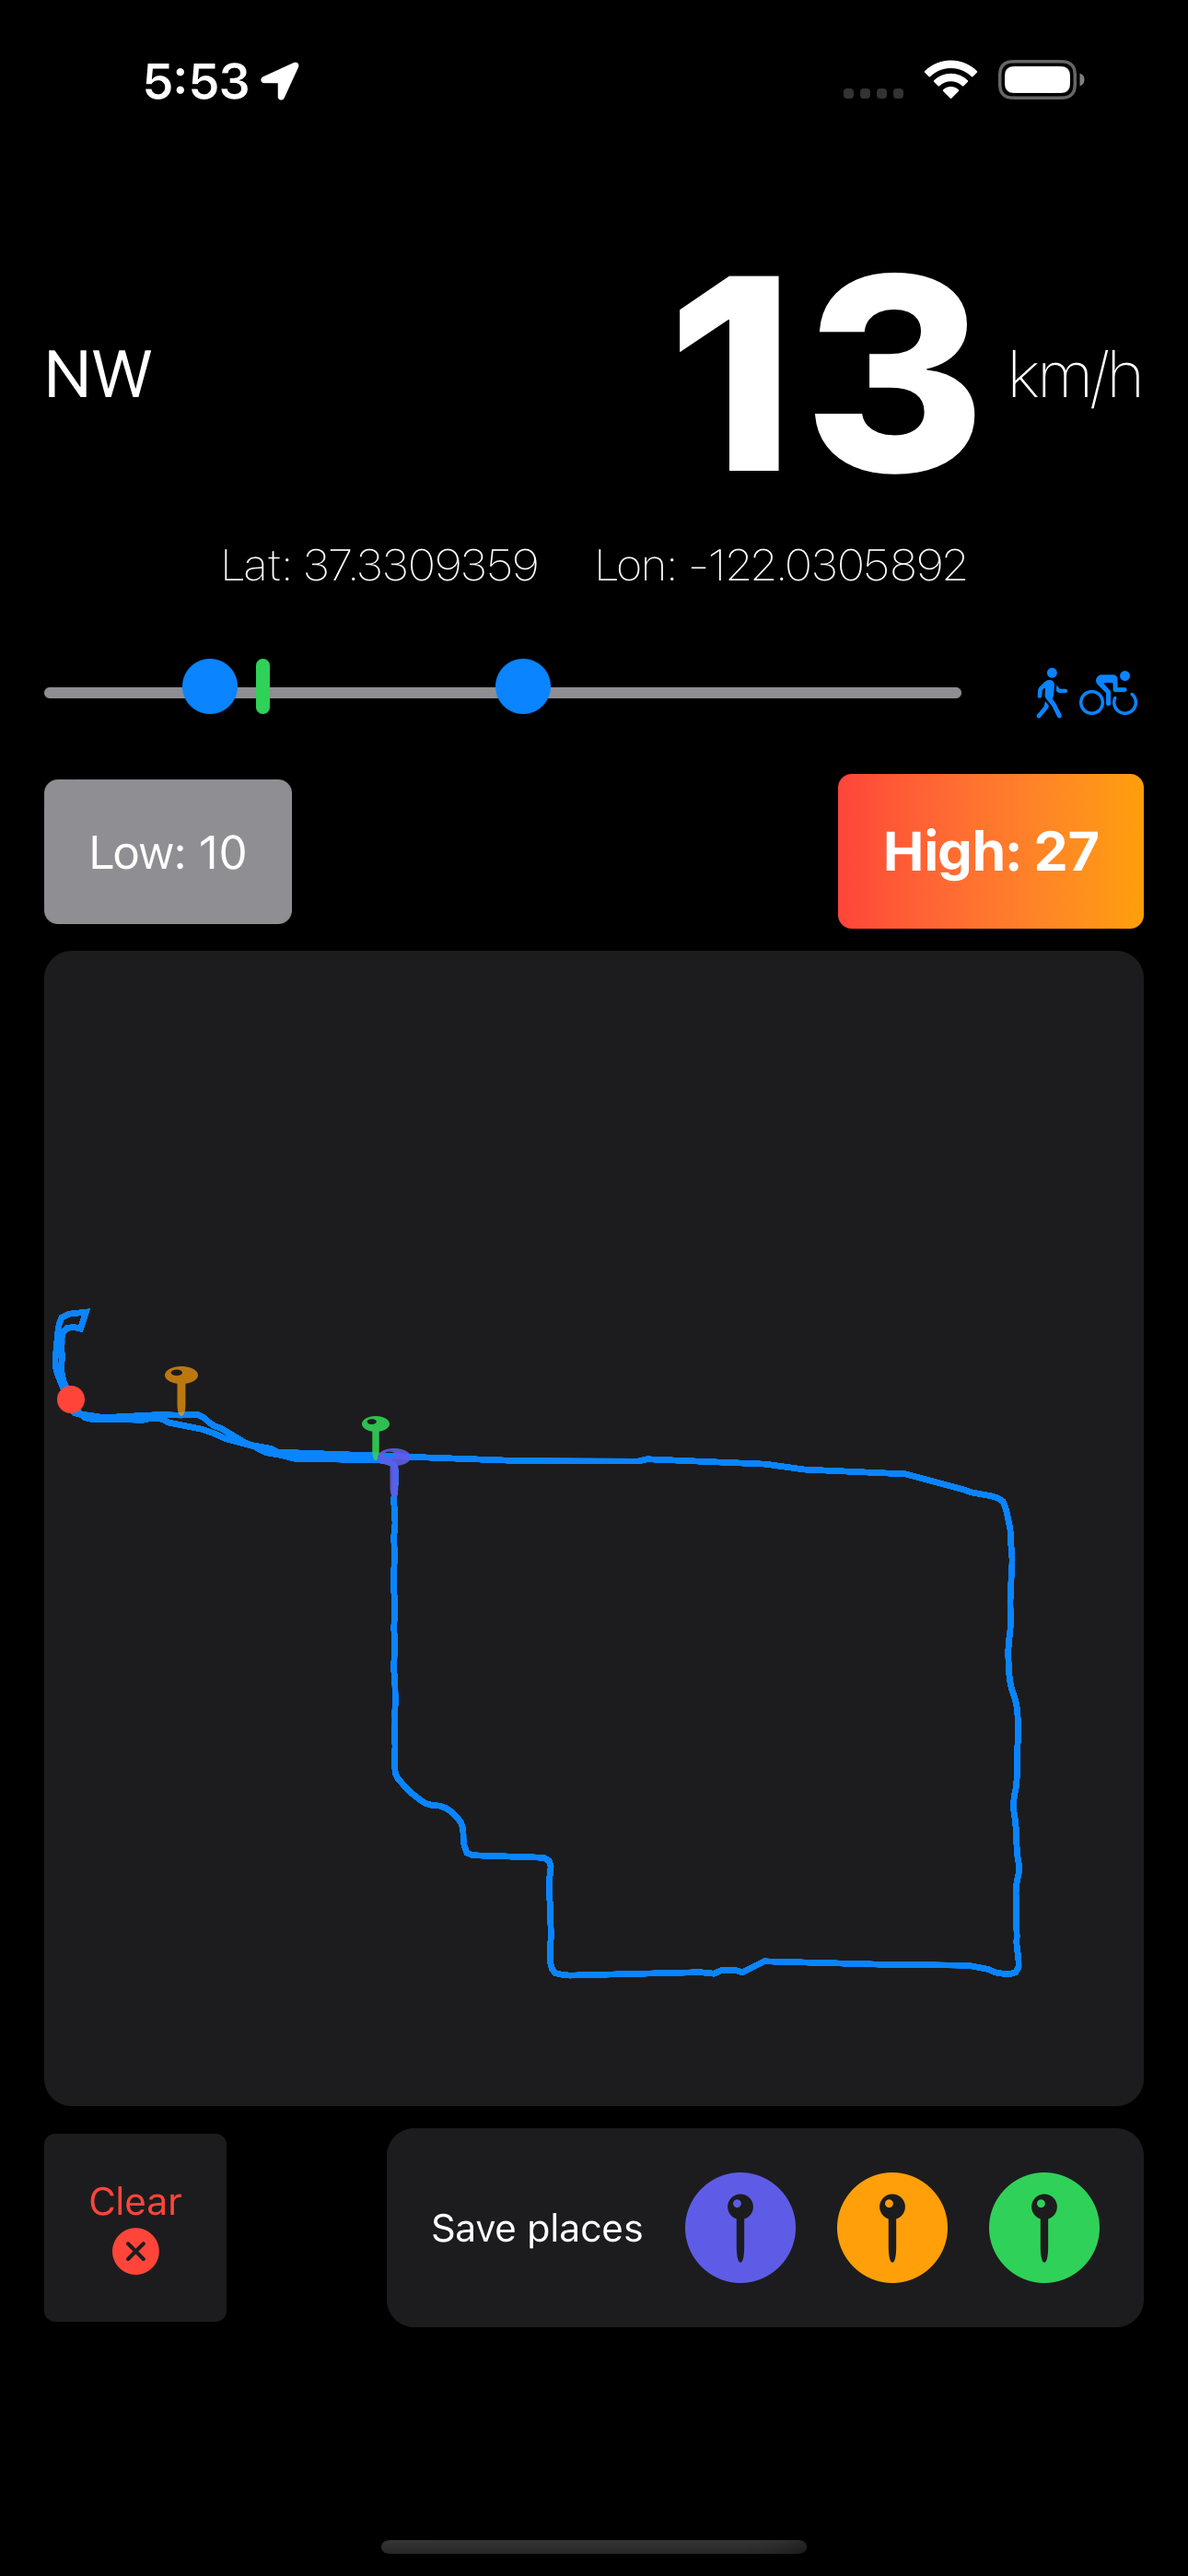
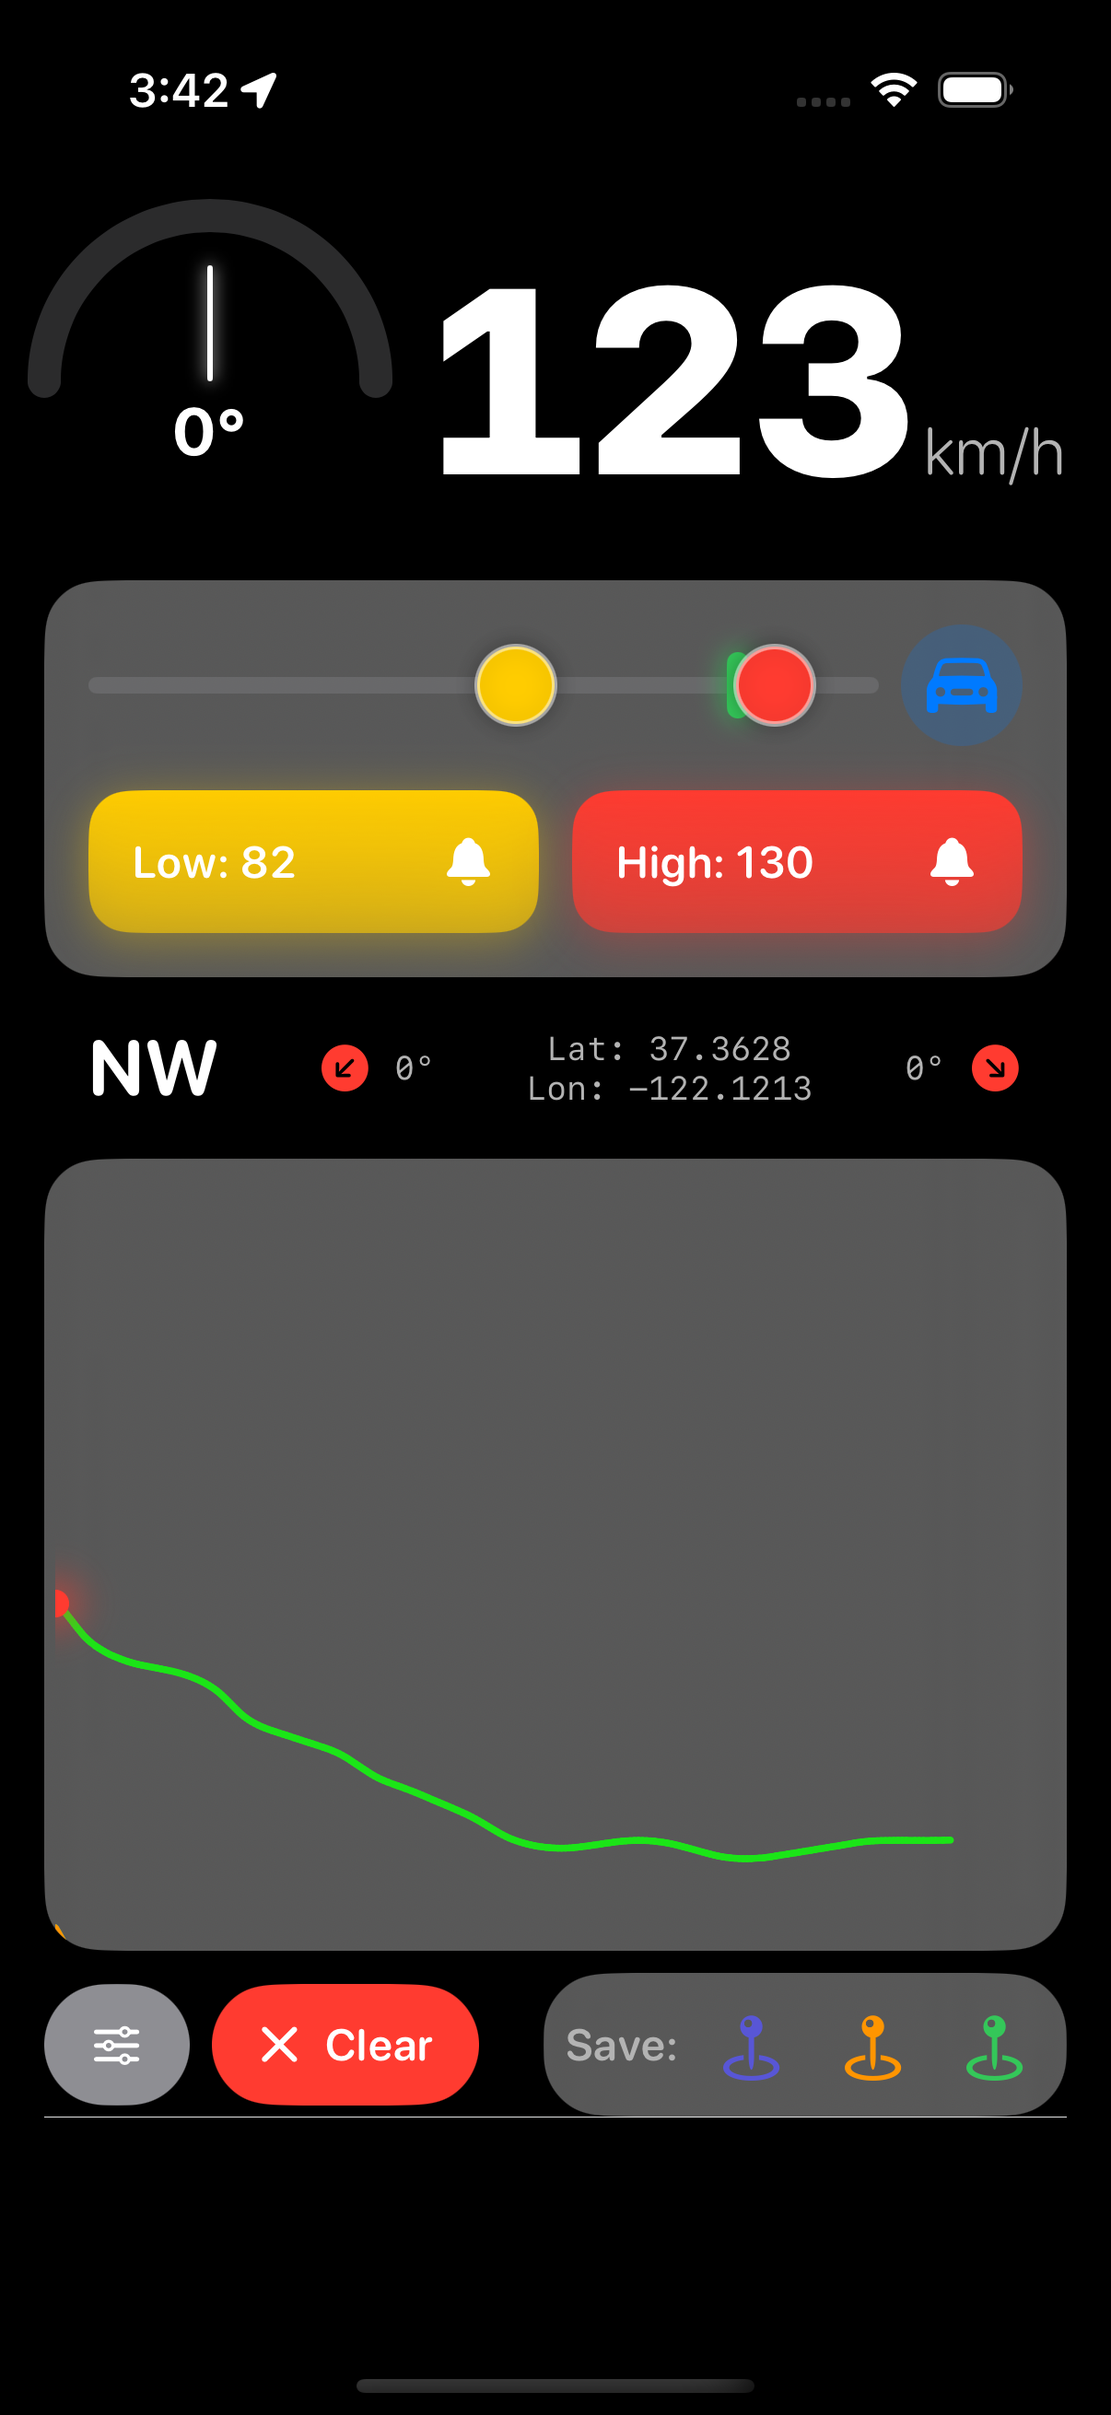
design updated, content modified for lean angle

diff --git a/index.html b/index.html
@@ -3,90 +3,116 @@
 <head>
     <meta charset="UTF-8">
     <meta name="viewport" content="width=device-width, initial-scale=1.0">
-    <title>Speedometer and Trails App</title>
+    <title>Speedometer & Trails App</title>
+    <!-- Tailwind CSS for modern styling -->
+    <script src="https://cdn.tailwindcss.com"></script>
+    <!-- Google Fonts for a clean, modern look -->
+    <link rel="preconnect" href="https://fonts.googleapis.com">
+    <link rel="preconnect" href="https://fonts.gstatic.com" crossorigin>
+    <link href="https://fonts.googleapis.com/css2?family=Inter:wght@400;600;700;900&display=swap" rel="stylesheet">
     <style>
+        /* Custom font family */
         body {
-            font-family: Arial, sans-serif;
-            line-height: 1.6;
-            margin: 20px;
-            background-color: #1e1e1e;
-            color: #ffffff;
+            font-family: 'Inter', sans-serif;
         }
-        .container {
-            width: 80%;
-            margin: auto;
-            overflow: hidden;
-        }
-        header {
-            background: linear-gradient(to bottom, #ff4500, #ffae42); /* Gradient background */
-            color: white;
-            padding-top: 30px;
-            min-height: 70px;
-            text-align: center;
-            box-shadow: 0px 3px 10px rgba(0, 0, 0, 0.2); /* Subtle shadow */
-        }
-        header h1 {
-            font-weight: normal;
-        }
-        .feature {
-            padding: 20px;
-            border-bottom: 1px solid #404040;
-        }
-        .feature-image {
-            float: right;
-            max-width: 200px;
-            margin-left: 20px;
-            border-radius: 10px;
-            position: relative;
-        }
-        .feature-image::after {
-            content: '';
-            display: block;
-            width: 100%;
-            height: 50%;
-            background: linear-gradient(to bottom, rgba(255, 255, 255, 0), rgba(255, 255, 255, 0.3)); /* Reflection effect */
-            position: absolute;
-            bottom: -50%;
-            border-radius: 10px;
-        }
-        footer {
-            background: linear-gradient(to bottom, #ffae42, #ff4500); /* Gradient background */
-            color: white;
-            padding: 10px;
-            text-align: center;
-            box-shadow: 0px -3px 10px rgba(0, 0, 0, 0.2); /* Subtle shadow */
+        /* Custom gradient for the hero text */
+        .text-gradient {
+            background-clip: text;
+            -webkit-background-clip: text;
+            color: transparent;
         }
     </style>
 </head>
-<body>
-    <header>
-        <div class="container">
-            <h1>Speedometer and Trails</h1>
+<body class="bg-gray-900 text-gray-200 antialiased">
+
+    <!-- Header Section -->
+    <header class="py-12 md:py-20 bg-gray-900">
+        <div class="container mx-auto px-6 text-center">
+            <h1 class="text-4xl md:text-6xl font-black text-gradient bg-gradient-to-r from-purple-400 via-red-400 to-yellow-400 mb-4">
+                Speedometer & Trails
+            </h1>
+            <p class="text-lg md:text-xl text-gray-400 max-w-3xl mx-auto">
+                The ultimate companion for your rides. Track your speed, map your journey, and now, analyze every turn with advanced lean angle metrics.
+            </p>
         </div>
     </header>
-    <div class="container">
-        <img src="screenshot.png" alt="App Screenshot" class="feature-image">
-        <div class="feature">
-            <h2>Real-Time Speed Display</h2>
-            <p>Get your current speed displayed on your iPhone with pinpoint accuracy. Your current location is marked in red, with blue trails showing where you have been. Tap on the speed to switch between kmph or mph. </p>
+
+    <!-- Main Content with Features -->
+    <main class="container mx-auto px-6 py-12">
+        <div class="grid md:grid-cols-2 lg:grid-cols-3 gap-8">
+
+            <!-- Feature Card: Lean Angle Tracking -->
+            <div class="bg-gray-800/50 rounded-2xl p-8 border border-gray-700 hover:border-purple-400 transition-all duration-300">
+                <div class="text-purple-400 mb-4">
+                    <svg xmlns="http://www.w3.org/2000/svg" class="h-10 w-10" fill="none" viewBox="0 0 24 24" stroke="currentColor"><path stroke-linecap="round" stroke-linejoin="round" stroke-width="2" d="M13 10V3L4 14h7v7l9-11h-7z" /></svg>
+                </div>
+                <h2 class="text-2xl font-bold text-white mb-3">Advanced Lean Angle Tracking</h2>
+                <p class="text-gray-400">
+                    Experience your ride like never before with our new real-time lean angle gauge. The app tracks your every move, displaying your current lean angle and remembering your maximums for each ride. Recalibrate anytime with a tap or automatically when your heading changes.
+                </p>
+            </div>
+
+            <!-- Feature Card: Dynamic Color Trails -->
+            <div class="bg-gray-800/50 rounded-2xl p-8 border border-gray-700 hover:border-red-400 transition-all duration-300">
+                 <div class="text-red-400 mb-4">
+                    <svg xmlns="http://www.w3.org/2000/svg" class="h-10 w-10" fill="none" viewBox="0 0 24 24" stroke="currentColor"><path stroke-linecap="round" stroke-linejoin="round" stroke-width="2" d="M7 21a4 4 0 01-4-4V5a2 2 0 012-2h4a2 2 0 012 2v12a4 4 0 01-4 4zm0 0h12a2 2 0 002-2v-4a2 2 0 00-2-2h-2.343M11 7.343l1.657-1.657a2 2 0 012.828 0l2.829 2.829a2 2 0 010 2.828l-8.486 8.485M7 17h.01" /></svg>
+                </div>
+                <h2 class="text-2xl font-bold text-white mb-3">Dynamic Color Trails</h2>
+                <p class="text-gray-400">
+                    Your location trail is now a vibrant reflection of your ride's intensity. The path shifts from green to red as you lean into turns (0-45°), and to a deep purple for extreme angles (45-90°), creating a beautiful and insightful map of your journey.
+                </p>
+            </div>
+
+            <!-- Feature Card: Real-Time Speed -->
+            <div class="bg-gray-800/50 rounded-2xl p-8 border border-gray-700 hover:border-yellow-400 transition-all duration-300">
+                 <div class="text-yellow-400 mb-4">
+                    <svg xmlns="http://www.w3.org/2000/svg" class="h-10 w-10" fill="none" viewBox="0 0 24 24" stroke="currentColor"><path stroke-linecap="round" stroke-linejoin="round" stroke-width="2" d="M12 8v4l3 3m6-3a9 9 0 11-18 0 9 9 0 0118 0z" /></svg>
+                </div>
+                <h2 class="text-2xl font-bold text-white mb-3">Real-Time Speed Display</h2>
+                <p class="text-gray-400">
+                    Get your current speed displayed with pinpoint accuracy. Your current location is marked in red, with color-coded trails showing where you've been. Tap the speed to instantly switch between km/h and mph.
+                </p>
+            </div>
+
+            <!-- Feature Card: Speed Limits -->
+            <div class="bg-gray-800/50 rounded-2xl p-8 border border-gray-700 hover:border-green-400 transition-all duration-300">
+                <div class="text-green-400 mb-4">
+                    <svg xmlns="http://www.w3.org/2000/svg" class="h-10 w-10" fill="none" viewBox="0 0 24 24" stroke="currentColor"><path stroke-linecap="round" stroke-linejoin="round" stroke-width="2" d="M11.933 12.8a1 1 0 000-1.6L6.6 7.2A1 1 0 005 8v8a1 1 0 001.6.8l5.333-4zM19.933 12.8a1 1 0 000-1.6l-5.333-4A1 1 0 0013 8v8a1 1 0 001.6.8l5.333-4z" /></svg>
+                </div>
+                <h2 class="text-2xl font-bold text-white mb-3">Custom Speed Alerts</h2>
+                <p class="text-gray-400">
+                    Set lower and upper speed limits with a convenient dual-handle slider. The app will alert you if you go above or below your set range. Easily switch between slow and fast speed ranges for precise control.
+                </p>
+            </div>
+
+            <!-- Feature Card: Location Trail -->
+            <div class="bg-gray-800/50 rounded-2xl p-8 border border-gray-700 hover:border-blue-400 transition-all duration-300">
+                <div class="text-blue-400 mb-4">
+                    <svg xmlns="http://www.w3.org/2000/svg" class="h-10 w-10" fill="none" viewBox="0 0 24 24" stroke="currentColor"><path stroke-linecap="round" stroke-linejoin="round" stroke-width="2" d="M17.657 16.657L13.414 20.9a1.998 1.998 0 01-2.827 0l-4.244-4.243a8 8 0 1111.314 0z" /><path stroke-linecap="round" stroke-linejoin="round" stroke-width="2" d="M15 11a3 3 0 11-6 0 3 3 0 016 0z" /></svg>
+                </div>
+                <h2 class="text-2xl font-bold text-white mb-3">Favorites & Trail Management</h2>
+                <p class="text-gray-400">
+                    Keep track of where you've been with a visual trail. Save up to 3 favorite locations for easy reference. Want to start fresh? Clear your trail and max lean angles with a single tap.
+                </p>
+            </div>
+            
+            <!-- App Screenshot -->
+            <div class="bg-gray-800/50 rounded-2xl p-8 border border-gray-700 flex items-center justify-center">
+                <img src="screenshot.png" alt="App Screenshot" class="rounded-lg shadow-2xl max-h-full">
+            </div>
+
         </div>
-        <div class="feature">
-            <h2>Set Speed Limits</h2>
-            <p>Set lower and upper speed limits with the Low and High buttons, beyond which the app will give an alert. Adjust the limits with a convenient slider featuring two grab points. The slider range can be changed by tapping on the icons at the right of the slider so that it is easy to select slower or faster limits. </p>
-        </div>
-        <div class="feature">
-            <h2>Historic Location Trail and Favorites</h2>
-            <p>Keep track of where you've been with a visual trail of your historic locations. Save up to 3 favorite locations for easy navigation by using the three pin buttons at the bottom. The favorite locations stay saved until you save a new location in the same colored button. </p>
-        </div>
-        <div class="feature">
-            <h2>Clear Your Trail</h2>
-            <p>Want to start fresh? Clear your trail with just a click to start a clean slate.</p>
-        </div>
-    </div>
-    <footer>
-        <div class="container">
-            <p>Download Speedometer and Trails from the <a href="https://apps.apple.com/us/app/speedometer-and-trails/id6451039058" target="_blank" style="color: #ffffff;">App Store</a> today!</p>
+    </main>
+
+    <!-- Footer with App Store Link -->
+    <footer class="mt-20 py-10 bg-gray-900/70">
+        <div class="container mx-auto px-6 text-center">
+            <p class="text-gray-400 mb-4">Ready to elevate your ride?</p>
+            <a href="https://apps.apple.com/us/app/speedometer-and-trails/id6451039058" target="_blank" class="inline-block bg-white text-gray-900 font-semibold px-8 py-3 rounded-lg hover:bg-gray-200 transition-colors">
+                Download on the App Store
+            </a>
         </div>
     </footer>
+
 </body>
 </html>
